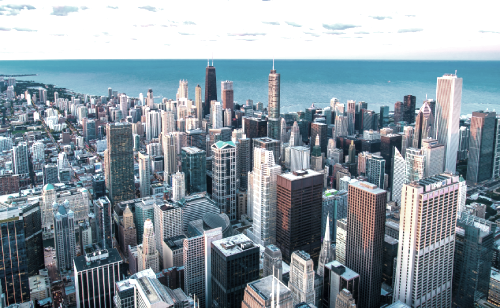
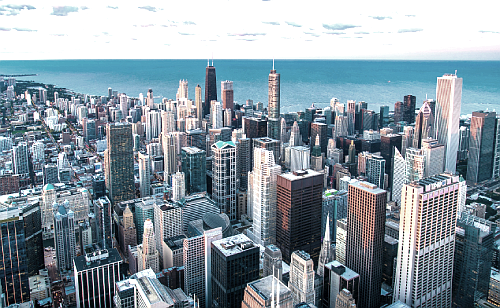
fixed scaling

diff --git a/main.py b/main.py
@@ -28,9 +28,9 @@ print(settings.screen_cof)
 
 
 pygame.display.set_caption('Quick Start')
-window_surface = pygame.display.set_mode((settings.Width, settings.Height), )
-
-background = pygame.Surface((settings.Width, settings.Height))
+window_surface = pygame.display.set_mode(settings.update((settings.Width, settings.Height)))
+print(settings.update((settings.Width, settings.Height)))
+background = pygame.Surface(settings.update((settings.Width, settings.Height)))
 background.fill(pygame.Color('#72C1F2'))
 
 scene = None

diff --git a/settings.py b/settings.py
@@ -1,8 +1,10 @@
-Height = 720
-Width = 1280
-Image_position = (180, 40)
-Image_scale = (920, 517)
-screen_cof = 0
+Height = int(720 / 1.5)
+Width = int(1280 / 1.5)
+DisplayHeight = 768
+DisplayWidth = 1366
+Image_position = (int(180 / 1.5), int(40 / 1.5))
+Image_scale = (int(920 / 1.5), int(517 / 1.5))
+coficient = (1, 1)
 
 
 def update(vect2: (int, int)):
